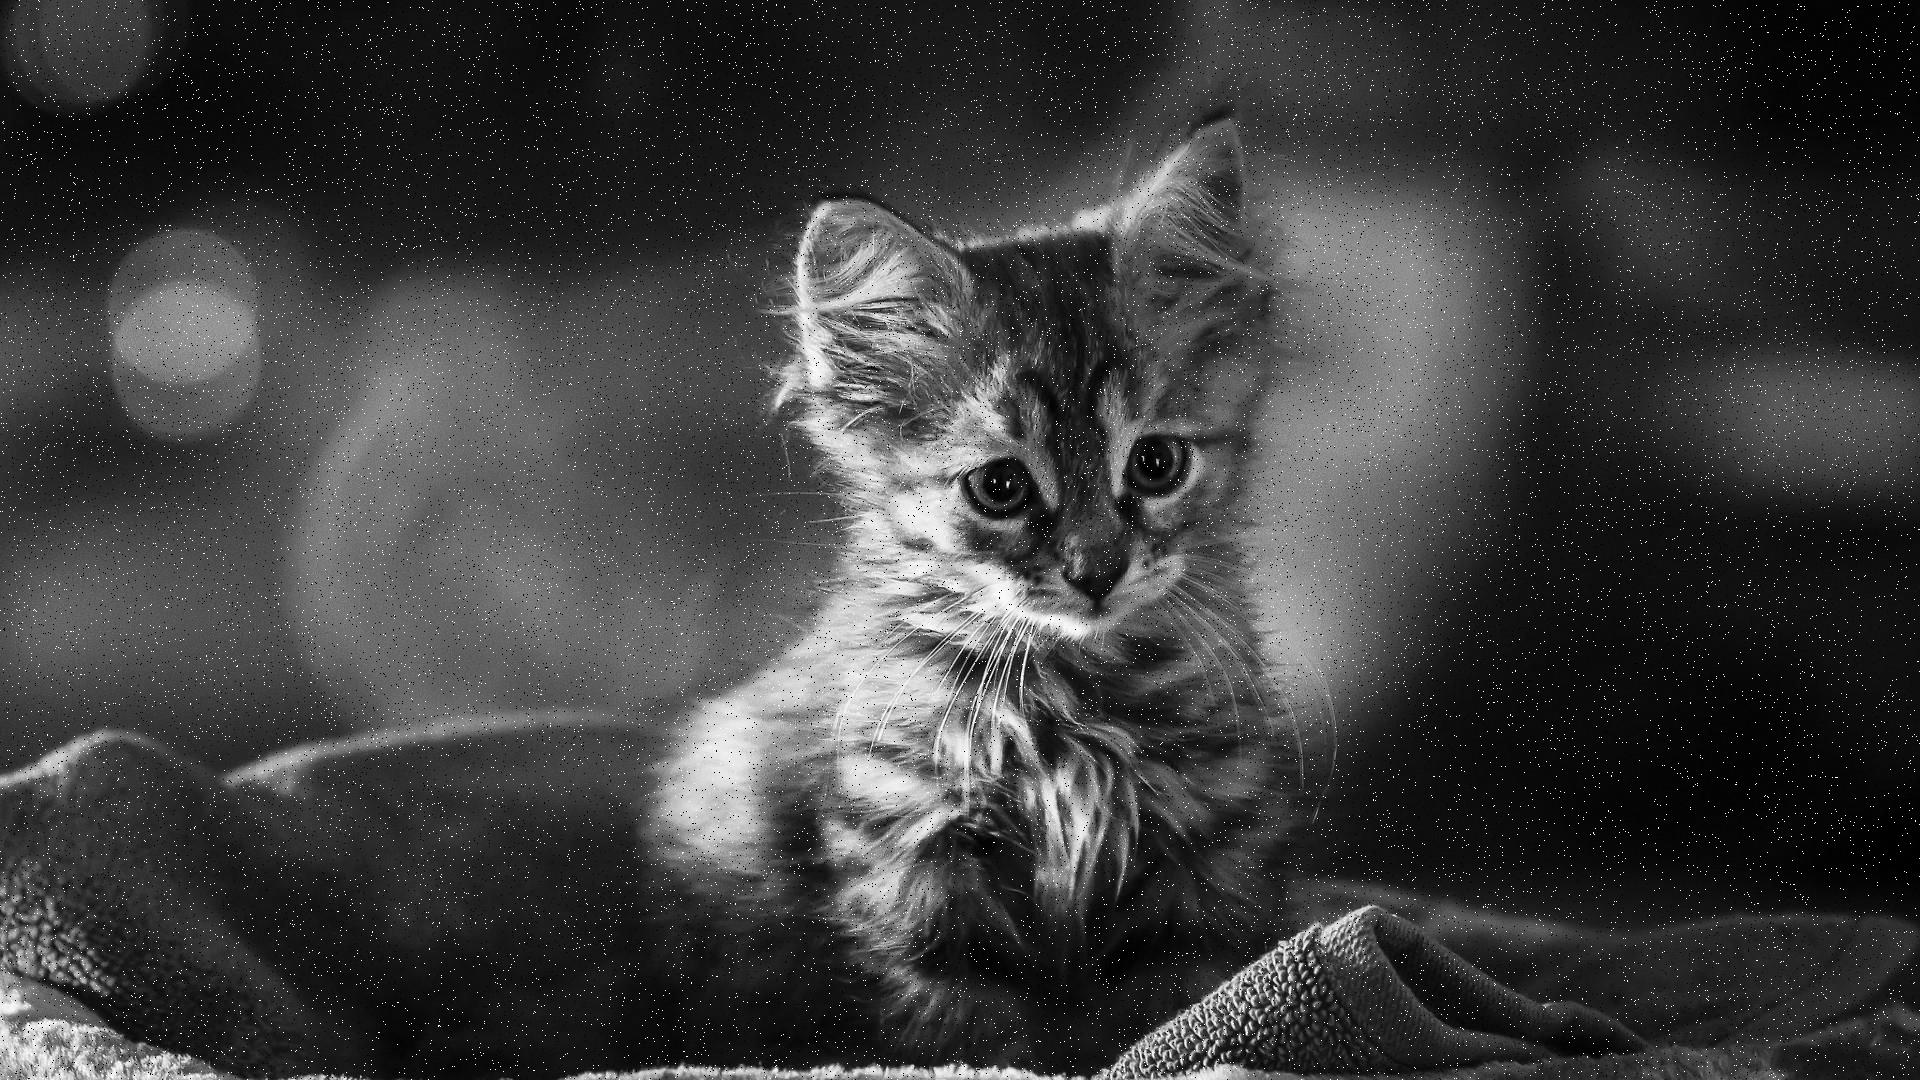
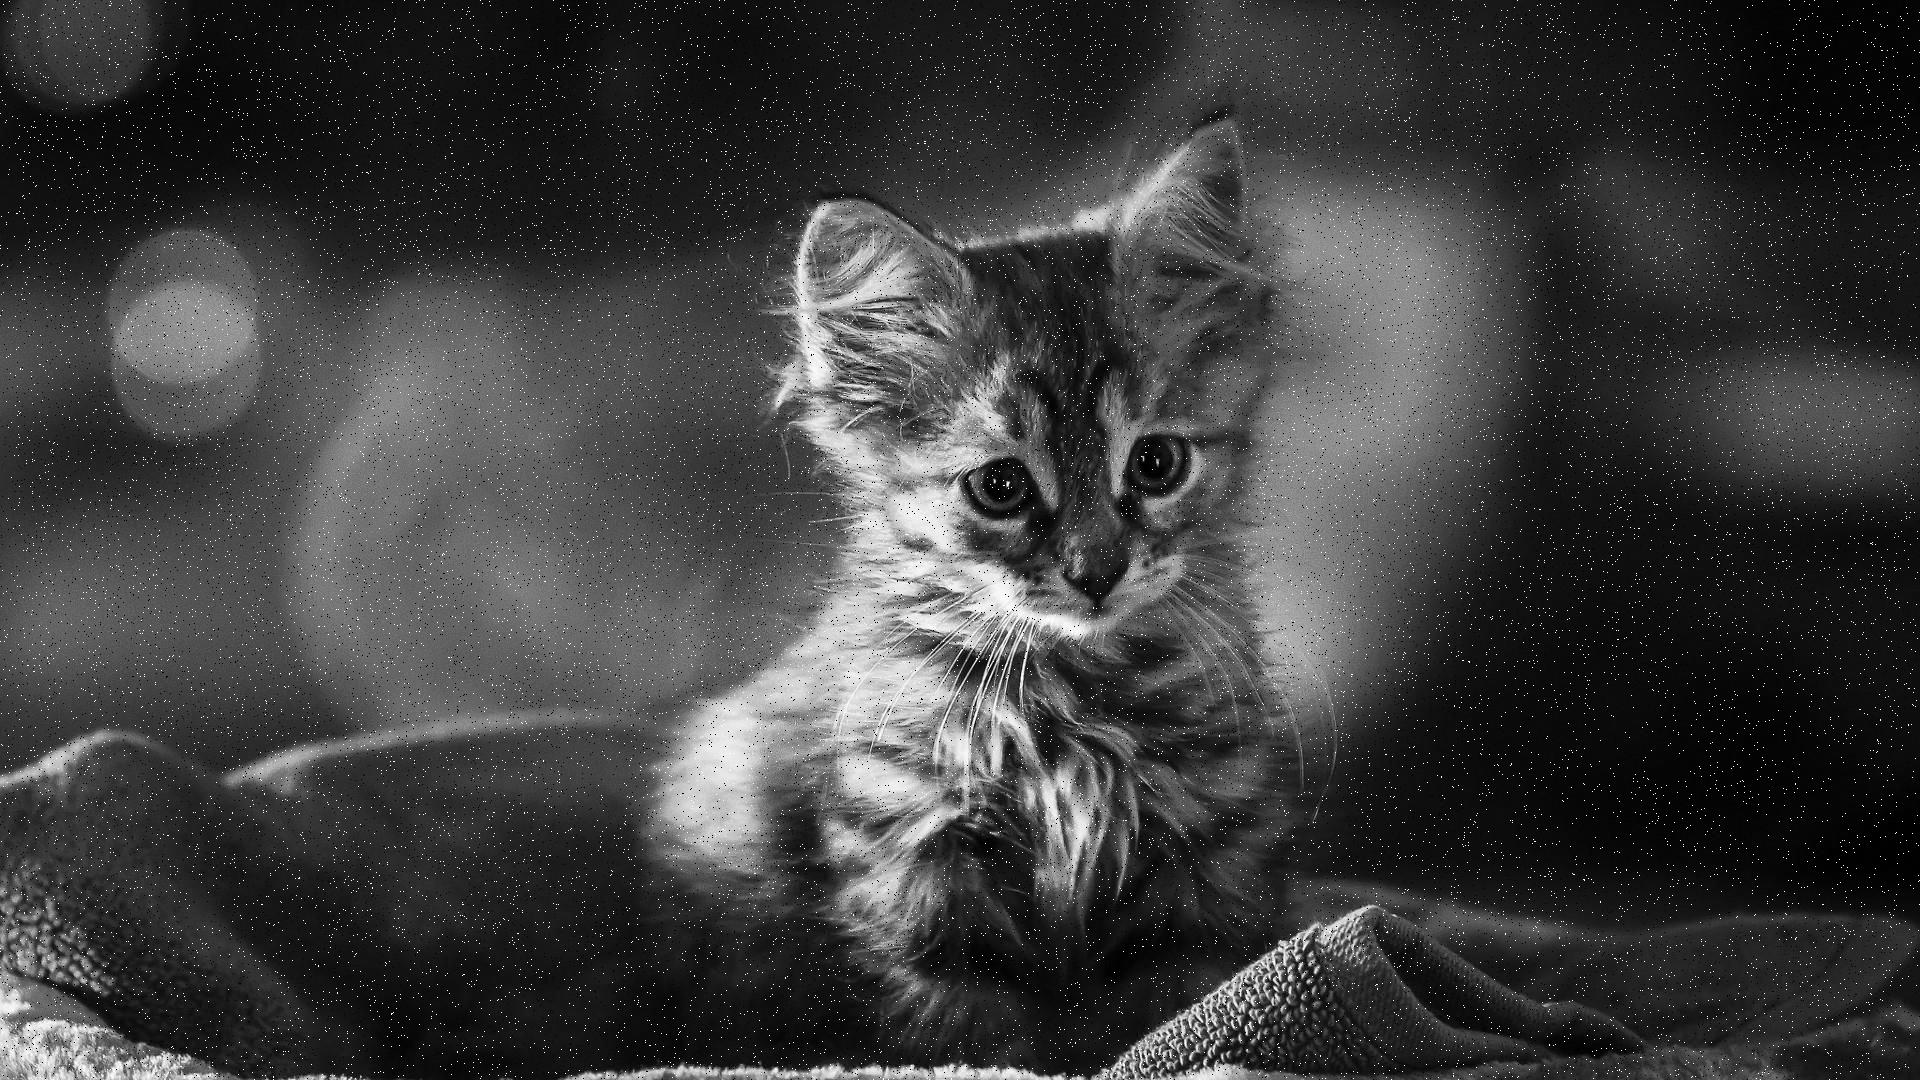
unsharp

diff --git a/src/ex3.py b/src/ex3.py
@@ -5,6 +5,7 @@ import math
 from tqdm import tqdm
 import cv2
 import random
+import scipy
 
 script_location = pathlib.Path(__file__)
 assets = script_location.parent.joinpath("../assets/")
@@ -148,6 +149,19 @@ def psnr(reference, test):
     sum1 = sum1/(h*w)
     return 10 * np.log10(term1/sum1)
 
+def unsharp_masking(img, lamb):
+    h,w = img.shape
+    h = [[0, -1/4, 0],
+         [-1/4, 1, -1/4],
+         [0, -1/4, 0]]
+    dg = scipy.ndimage.convolve(img, h)
+    return img + lamb * dg
+
+
+
+img3 = np.array(CAT.convert('L'))
+img3 = unsharp_masking(img3, 2)
+img3 = Image.fromarray(img3.astype('uint8')).save(results.joinpath('unsharped-cat.jpg'))
 
 img = add_both_noises(CAT, 0.1)
 img.save(results.joinpath('cat-noised.jpg'))
@@ -160,3 +174,5 @@ snr = snr(np.array(img.convert('L')), np.array(img2.convert('L')))
 psnr = psnr(np.array(img.convert('L')), np.array(img2.convert('L')))
 print(f'SNR: {snr}')
 print(f'PSNR: {psnr}')
+
+
